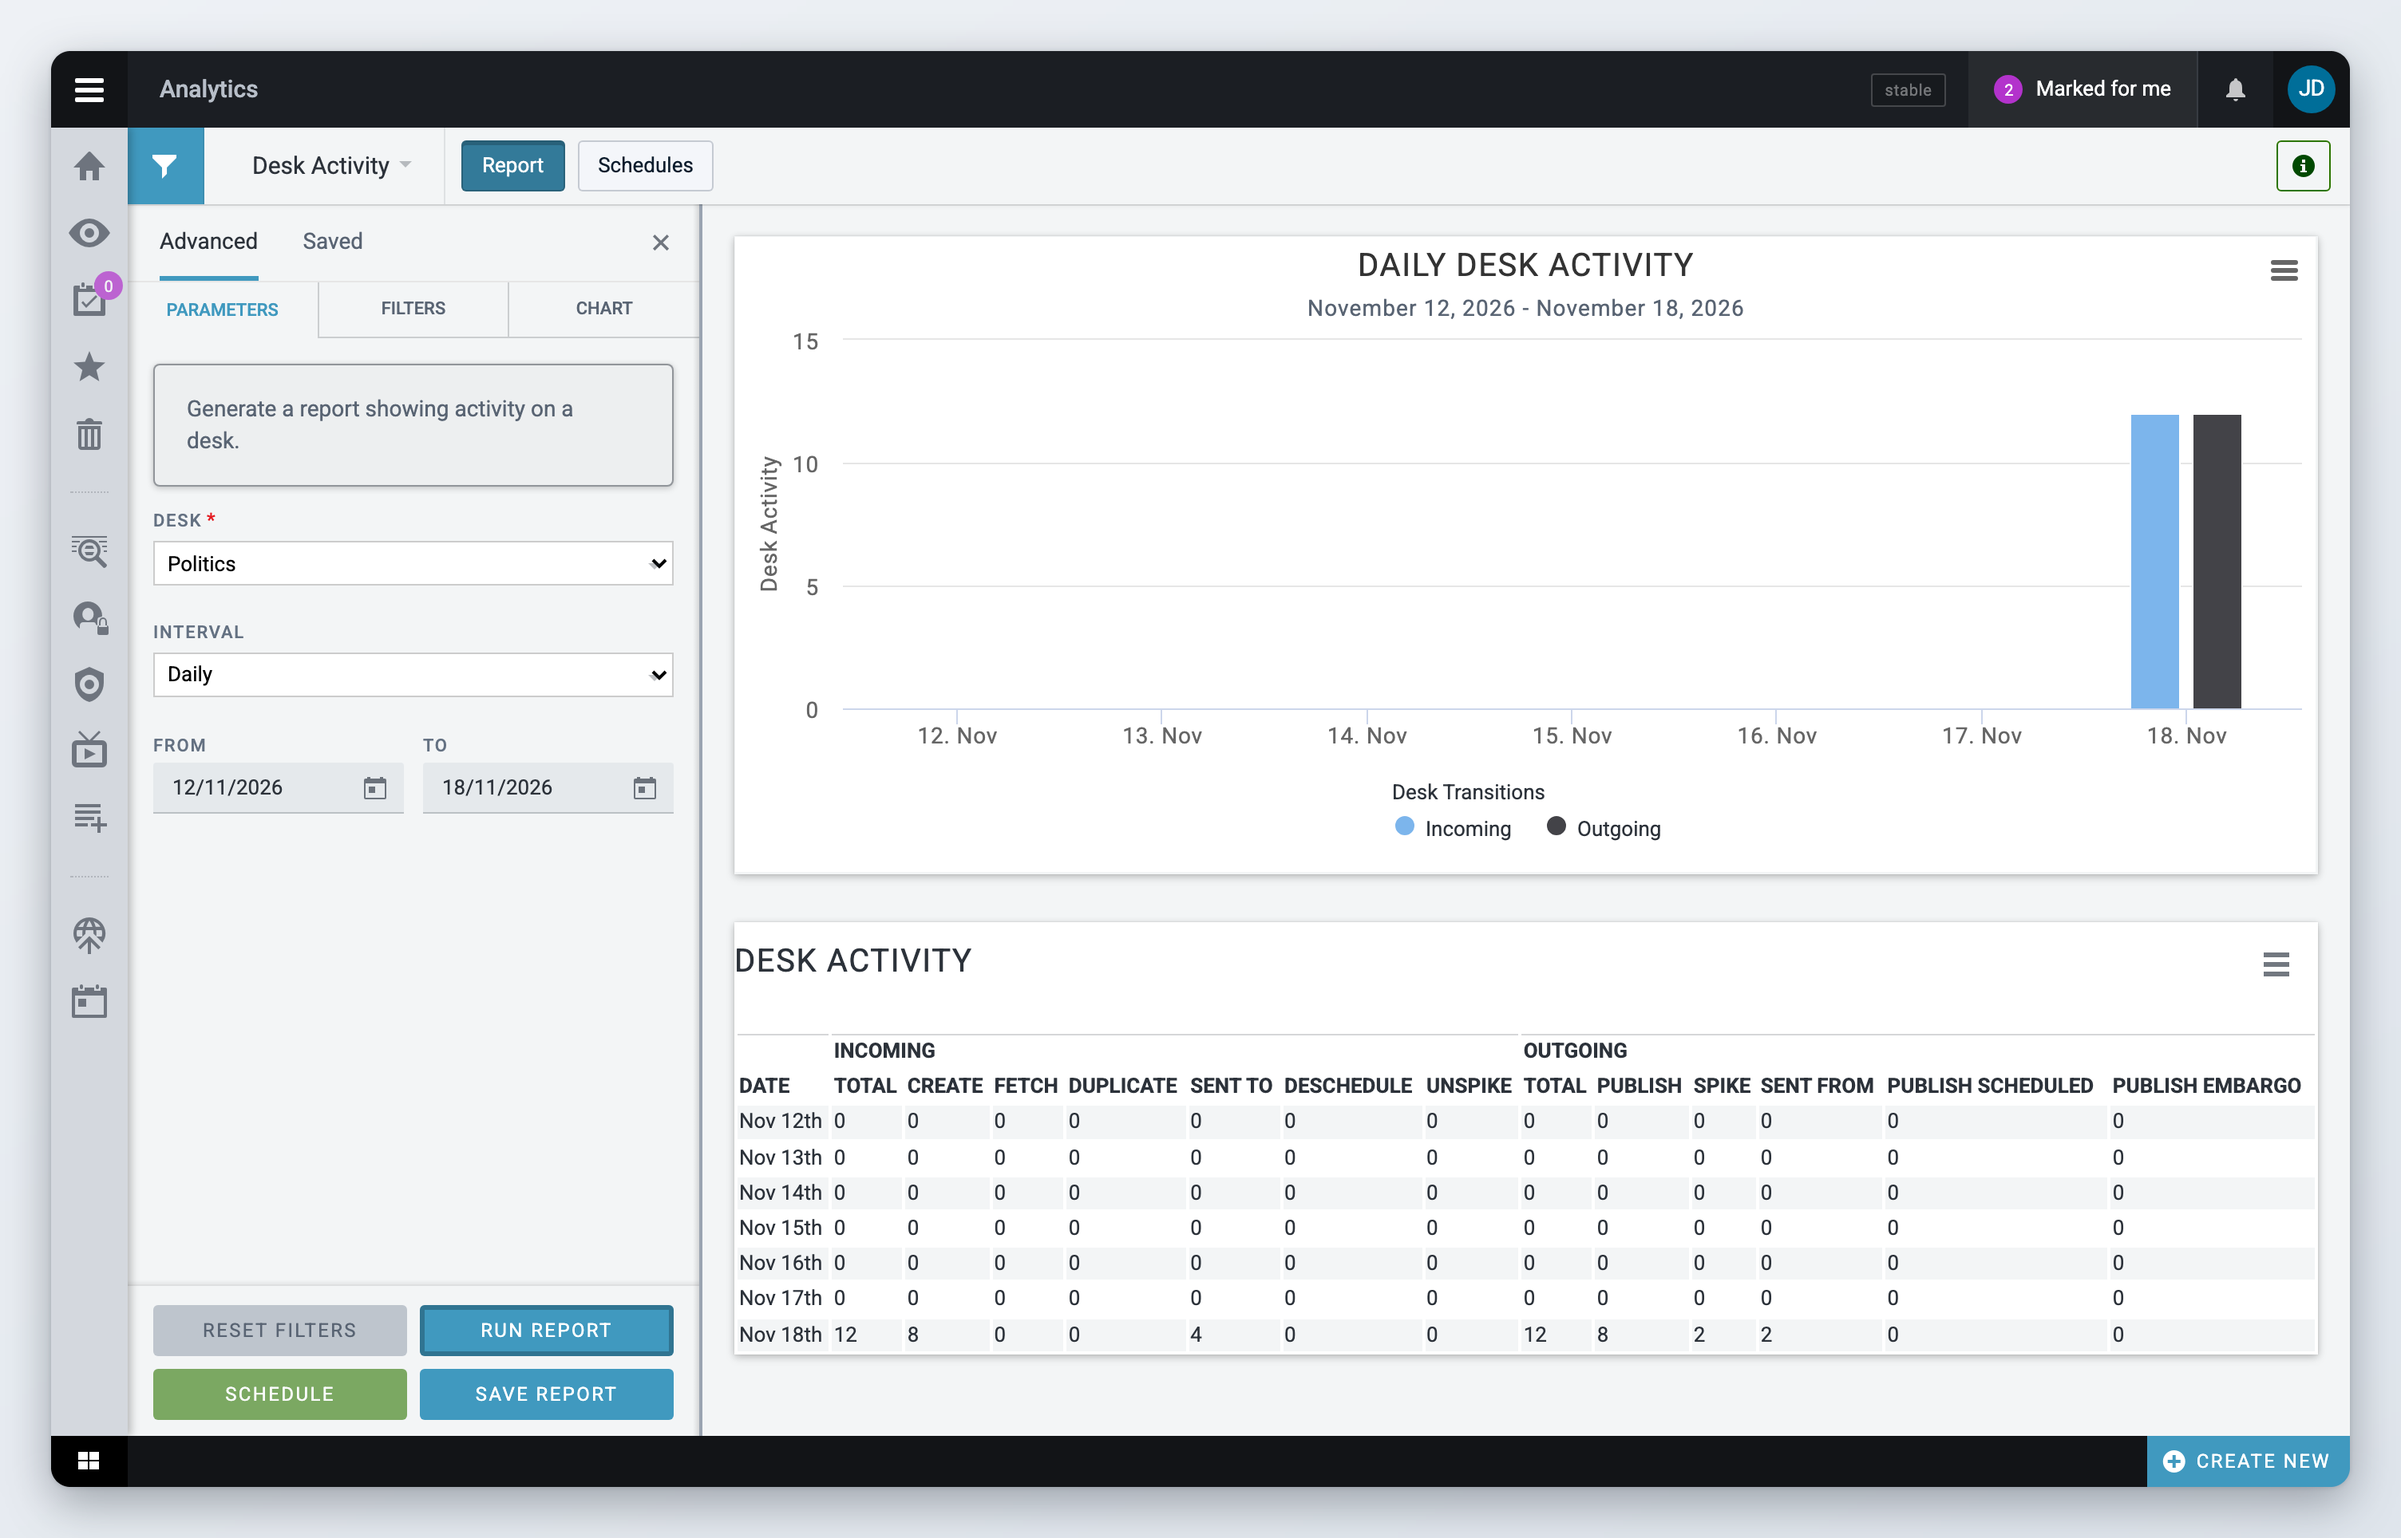
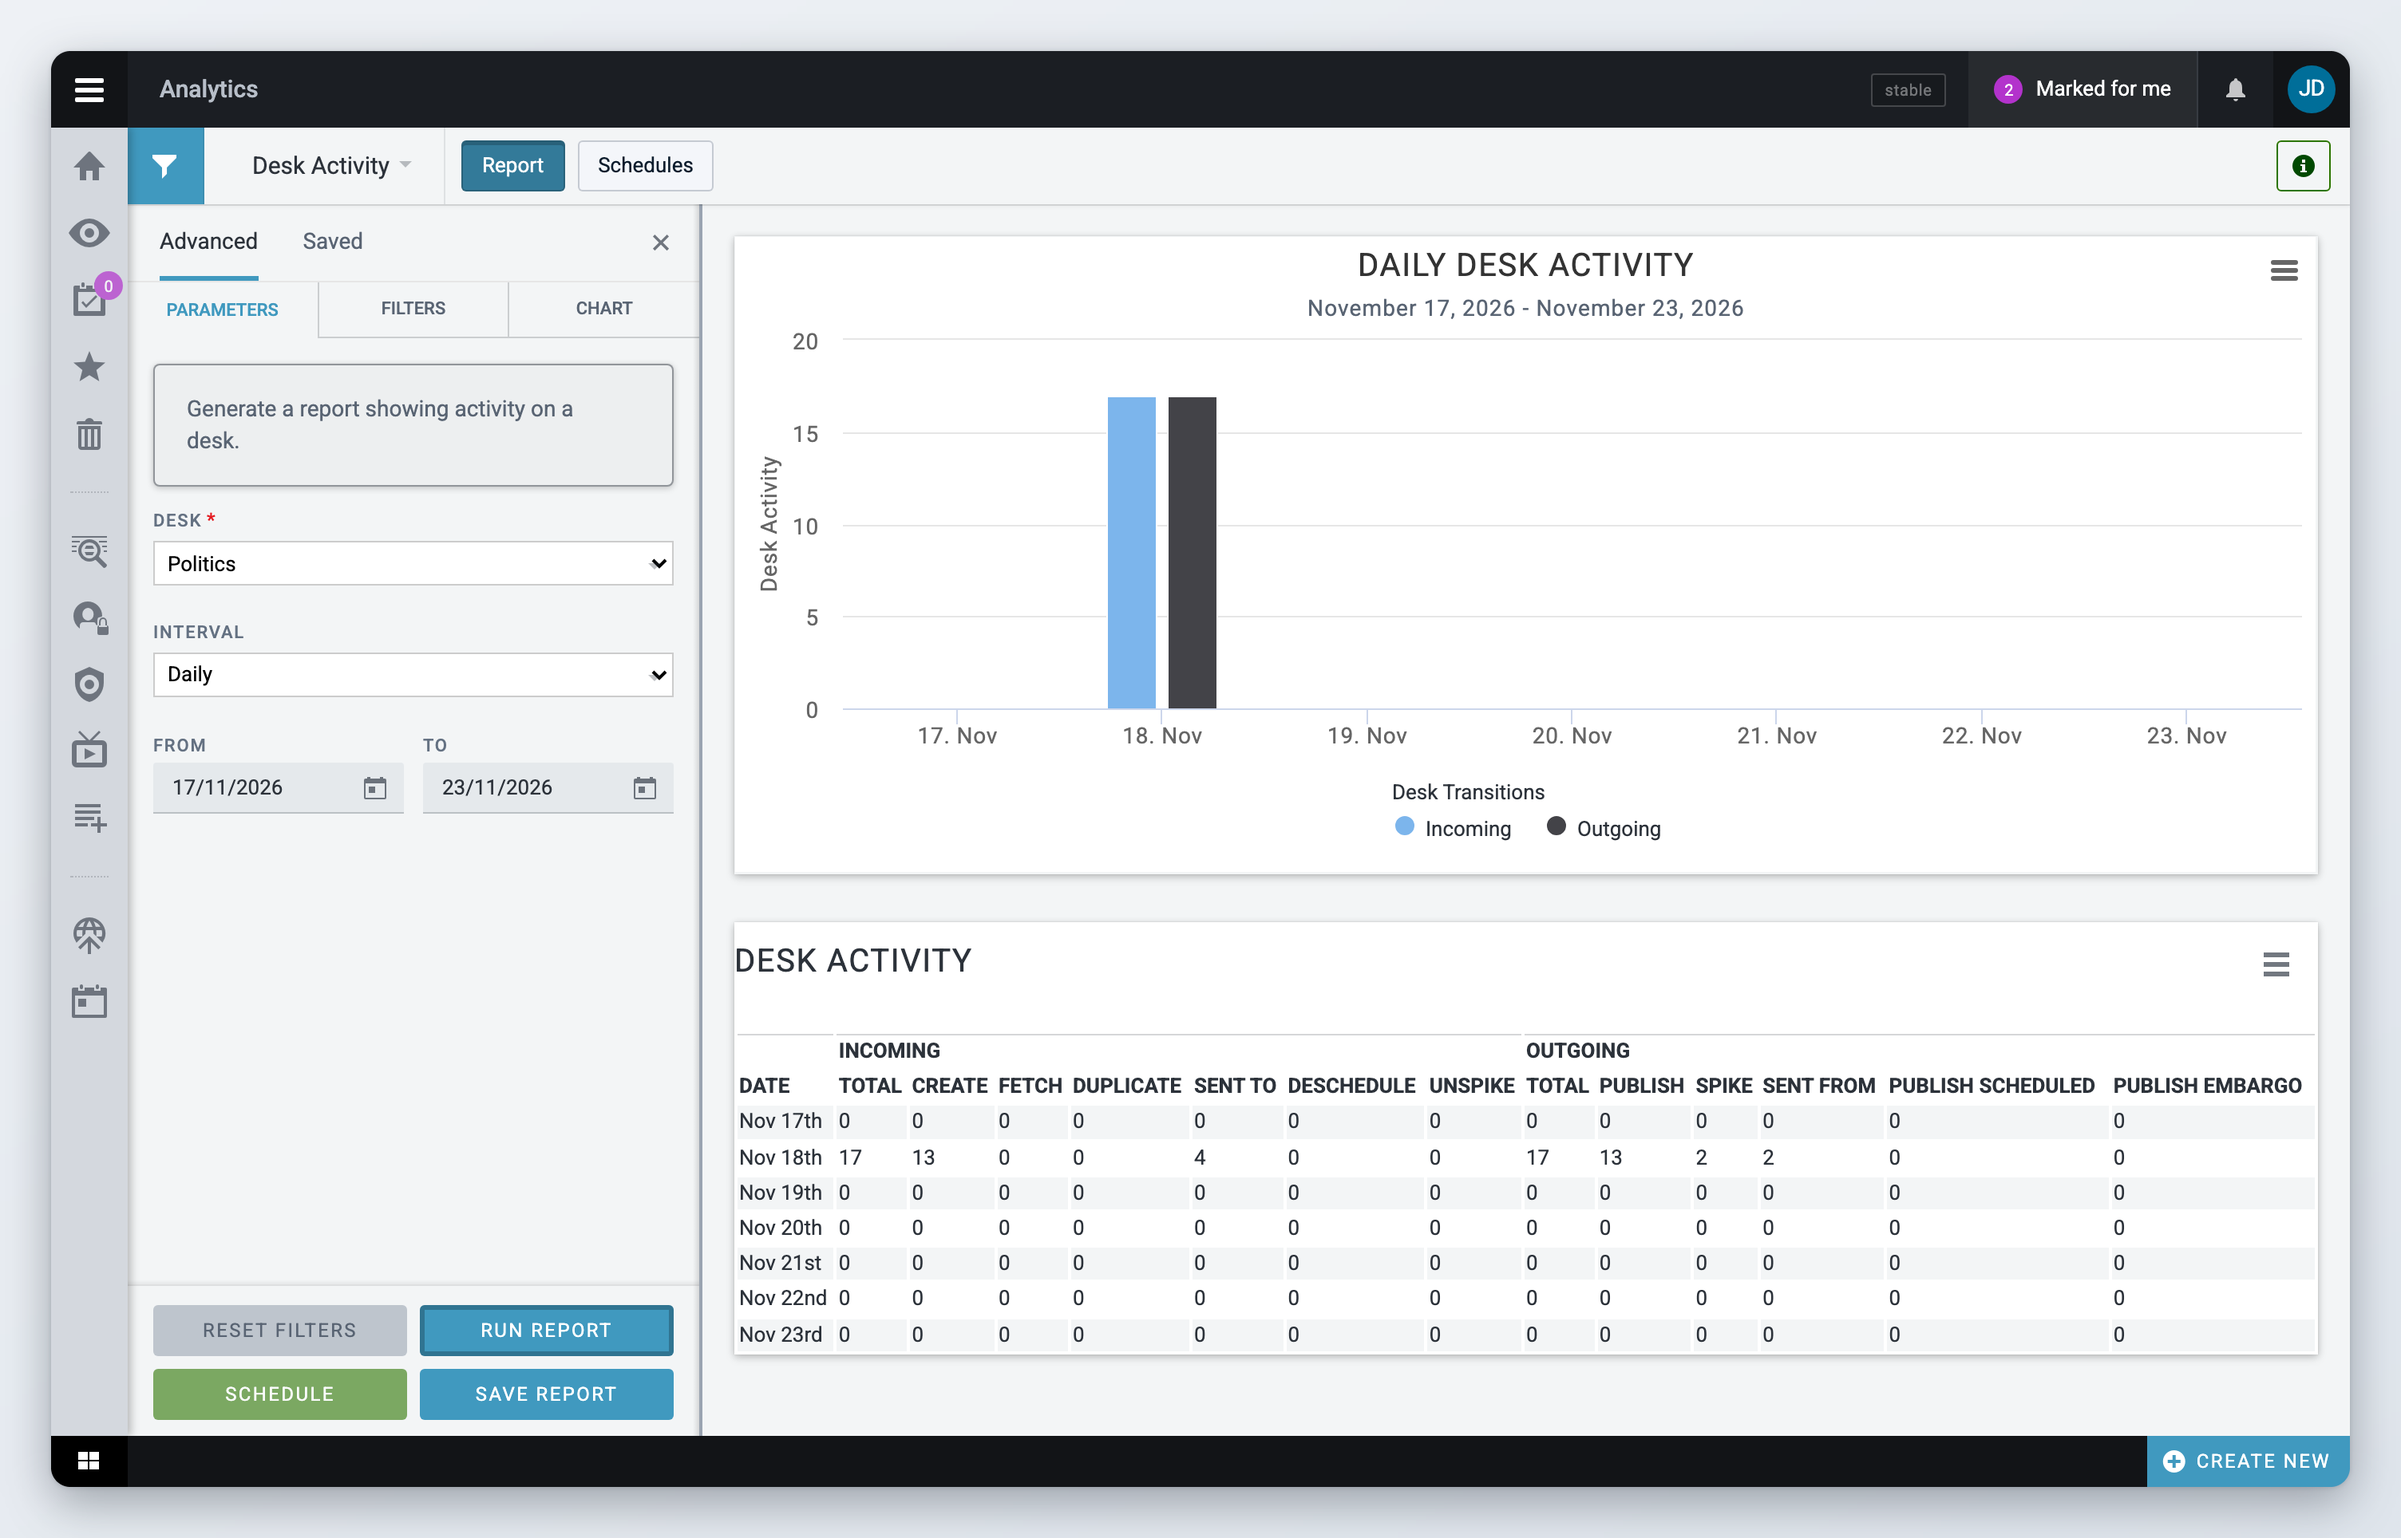
[SDESK-8023] Add the User Activity screenshot and recapture Desk Activity

diff --git a/tools/screenshots/CAPTURE-STATUS.md b/tools/screenshots/CAPTURE-STATUS.md
@@ -46,7 +46,7 @@ Preconditions that the seed or the client patch now fulfil start with "Done by s
 
 - `broadcasting-shows-and-rundowns` (8 of 9): captured on 2026-10-14 on slot 1 with the broadcasting patch (CAPTURE.md, "Broadcasting on the e2e stack") and `seed_broadcasting.py`, styled and copied into `.gitbook/assets`. Run `seed_broadcasting.py` after `seed.py` and again before a rerun: it releases rundown locks a failed run leaves behind and puts the rundown list back in order.
 
-- `analytics` (8 of 9): not on this stack (no superdesk-analytics); captured on the docs instance on 2026-11-18, styled and copied into `.gitbook/assets`. `user-activity-report` is captured but not in the page: the y axis labels only two of the seven sluglines and the timeline chart below has no title. Everything is dated the capture day, so the 7-day Desk Activity chart has one busy day. Restore `autodocs`, run `seed_analytics.py` against the instance (SEED.md, "Analytics"), wait for the next full hour so the archive statistics exist, then `NO_RESTORE=1 ./run-capture-autodocs.sh analytics`. The steps pick each report from the report list: opening `#/analytics?report=...` directly can leave the report panel empty (the report controller starts before `/api/report_configs` has answered). The instance lists six reports (PUBLISH_ASSOCIATED_ITEMS hides Featuremedia Updates and Update Time), and Desk Activity offers only a From/To range in this analytics version.
+- `analytics` (9 of 9): not on this stack (no superdesk-analytics); captured on the docs instance on 2026-11-18 (`desk-activity-report` and `user-activity-report` again on 2026-11-23, with the User Activity date set to the seed day), styled and copied into `.gitbook/assets`. Everything is dated the seed day, so the 7-day Desk Activity chart has one busy day. Restore `autodocs`, run `seed_analytics.py` against the instance (SEED.md, "Analytics"), wait for the next full hour so the archive statistics exist, then `NO_RESTORE=1 ./run-capture-autodocs.sh analytics`, on the same day as the seed (User Activity shows a single day and the manifest leaves it on today). The steps pick each report from the report list: opening `#/analytics?report=...` directly can leave the report panel empty (the report controller starts before `/api/report_configs` has answered). The instance lists six reports (PUBLISH_ASSOCIATED_ITEMS hides Featuremedia Updates and Update Time), and Desk Activity offers only a From/To range in this analytics version. The first User Activity capture had blank y axis labels and a '-' timeline title because the statistics database was shared between Fireq instances and part of the history was skipped; the auto-docs branch now keeps it per instance (superdesk a25a733d4).
 
 ### Capturable now
 

diff --git a/superdesk-user-guide/integrations-and-advanced-features/analytics.md b/superdesk-user-guide/integrations-and-advanced-features/analytics.md
@@ -81,6 +81,8 @@ In **Content Publishing**, **Group By** and **Subgroup By** also list the custom
 
 Each row of the chart is a story, labelled with its slugline. The bars show when the user had the story open for editing. Hover over a bar to see the slugline, headline, times and the actions taken. Click a bar to open a second chart below with the full timeline of that story, from creation to its last action, with one colour per user who touched it.
 
+<figure><img src="../../.gitbook/assets/analytics/user-activity-report.png" alt="A User Activity report for one user and one day, with a bar per story edited and the timeline of the selected story below it" width="999"><figcaption><p>The User Activity report with the timeline of one story</p></figcaption></figure>
+
 {% hint style="info" %}
 User Activity cannot be scheduled.
 {% endhint %}
